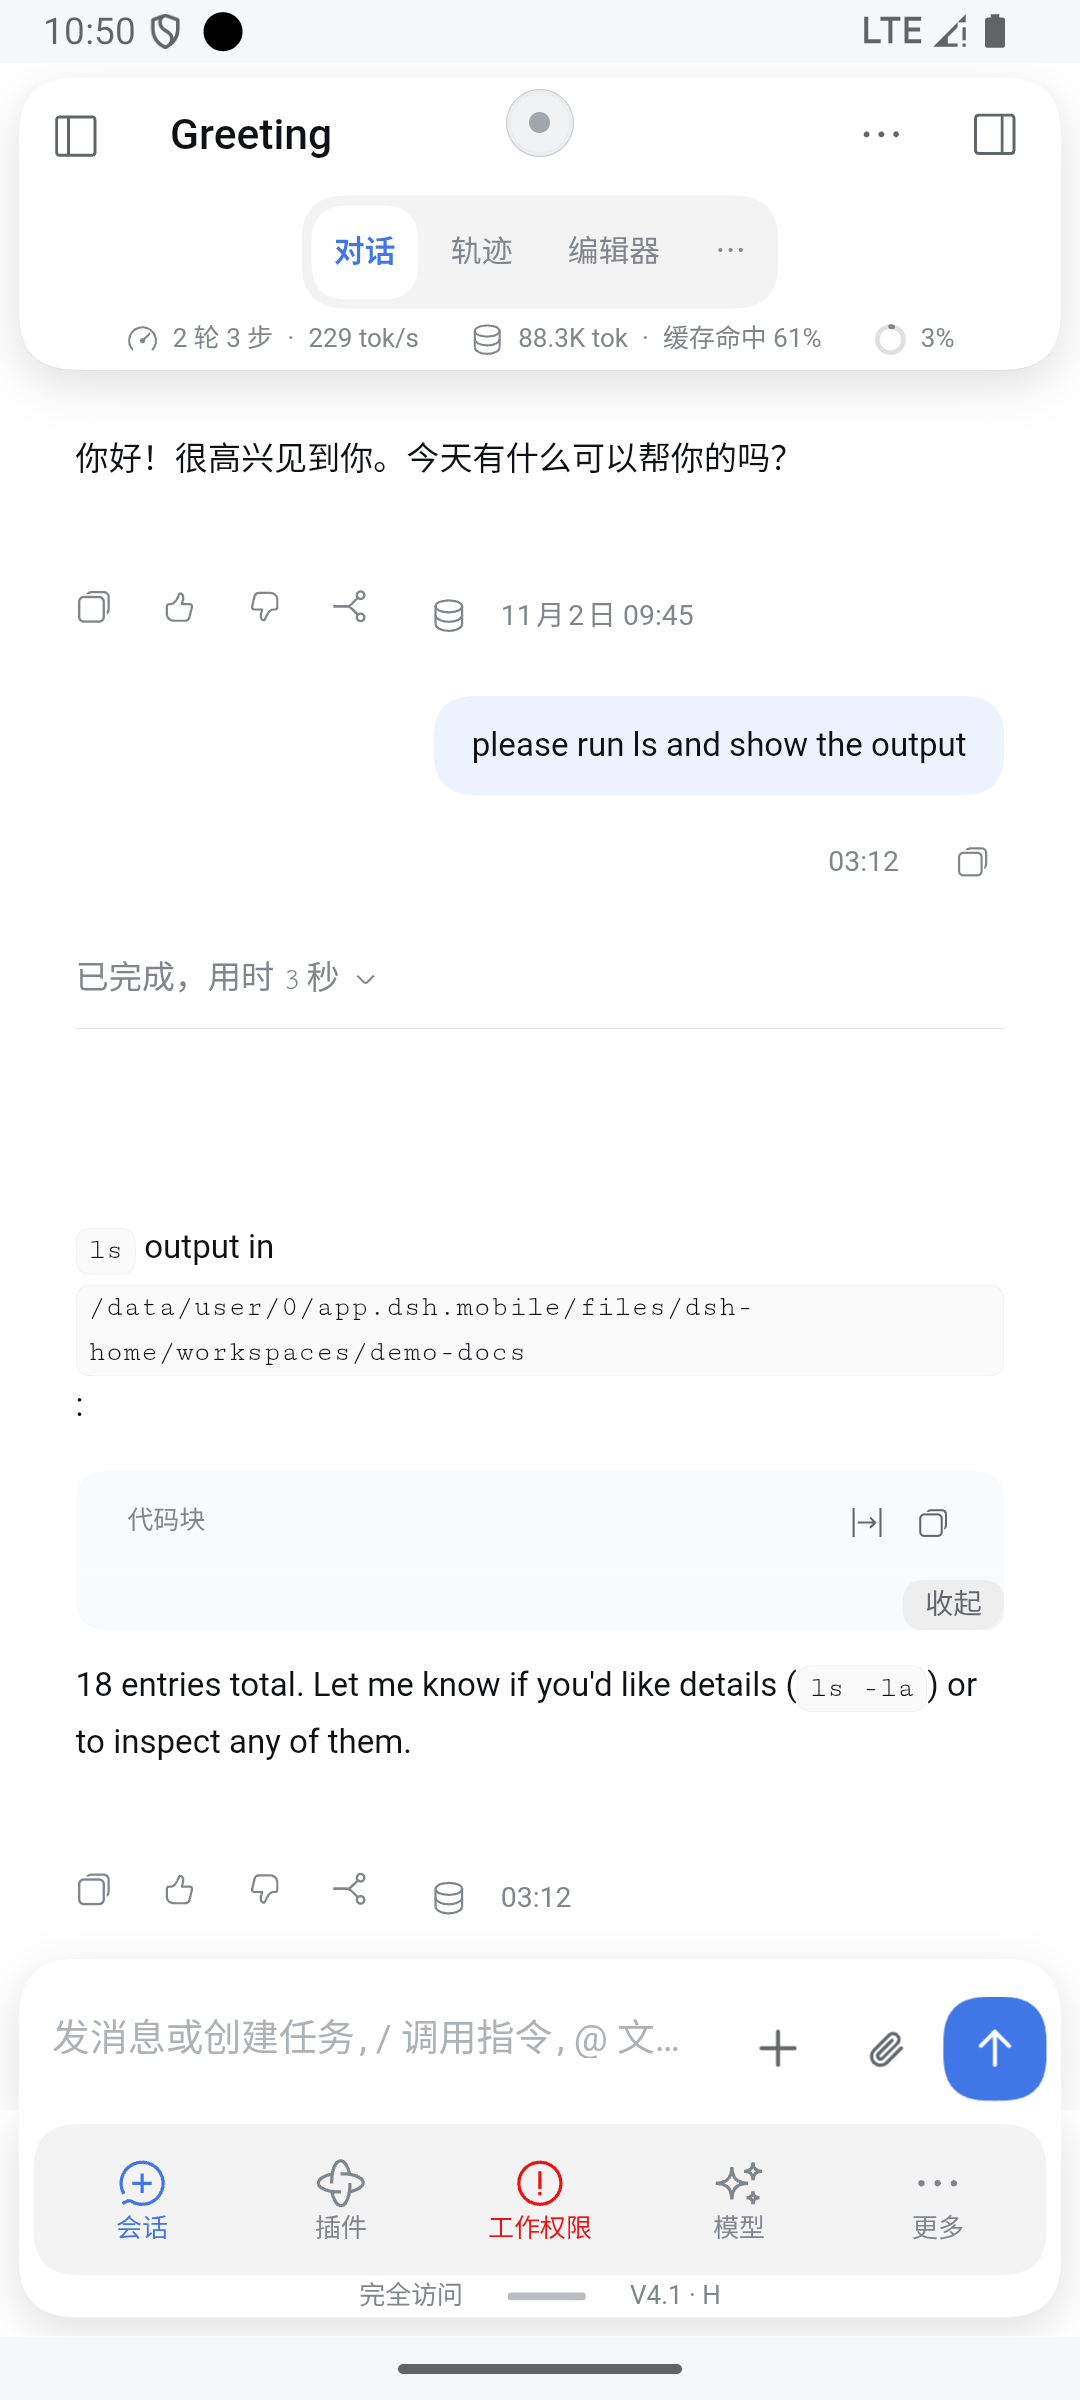
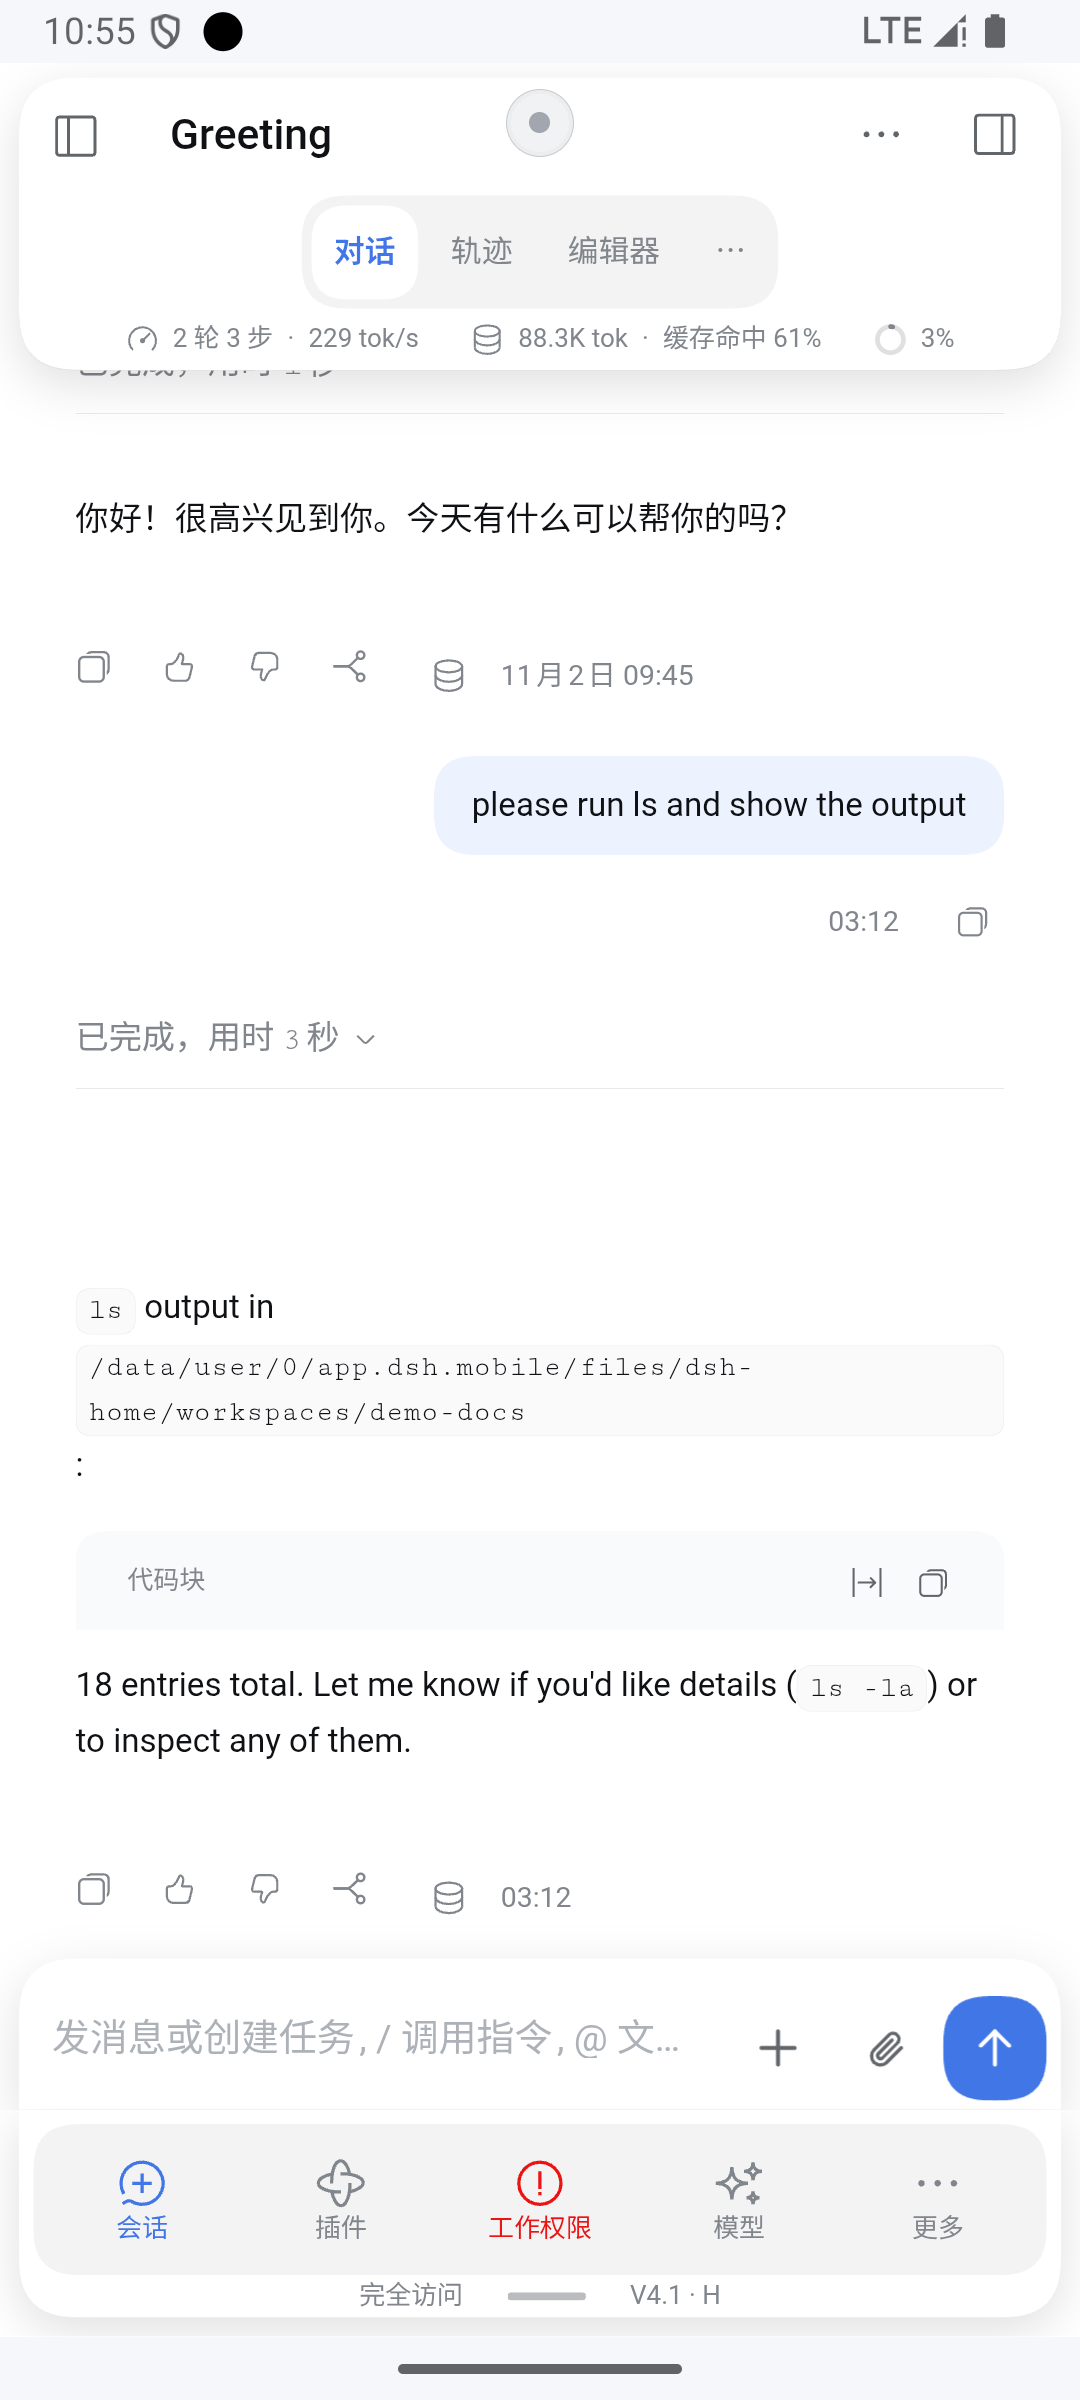
feat(dialogue): re-apply collapse on every DOM mutation; hide the code card wrapper too
- MutationObserver (rAF-debounced) re-applies the three syncs after React commits, so the collapsed state no longer bounces back within a second;
- the code block card wrapper is hidden together with the <pre>, so collapsing no longer leaves an empty 代码块 card behind.
AVD: click -> hidden 6, pre display none, code card header-only; the 'output in <path>' summary line stays visible by design.

diff --git a/lib/client.js b/lib/client.js
@@ -2226,12 +2226,23 @@ window.__ModuleLoader__.load({
         }
         const targets = [];
         for (const part of parts) {
-          for (const node of part.querySelectorAll('[data-dshm-think], [data-dshm-cmd], [data-dshm-code-block]')) {
+          for (const node of part.querySelectorAll('[data-dshm-think], [data-dshm-cmd]')) {
             targets.push(node);
           }
+          for (const node of part.querySelectorAll('[data-dshm-code-block]')) {
+            targets.push(node);
+            // 代码块外面还有一层带标题的卡片，只藏 pre 会留下空卡片。
+            const card = node.closest('div');
+            if (card && card !== part) targets.push(card);
+          }
           for (const node of part.querySelectorAll('*')) {
-            if (node.children.length === 0 && /^output in\b/i.test((node.textContent || '').trim())) {
-              targets.push(node.parentElement || node);
+            if (node.children.length === 0 && /output in/i.test((node.textContent || '').trim())) {
+              let holder = node;
+              while (holder.parentElement && holder.parentElement !== part
+                && holder.parentElement.children.length < 3) {
+                holder = holder.parentElement;
+              }
+              targets.push(holder);
             }
           }
         }
@@ -2278,6 +2289,22 @@ window.__ModuleLoader__.load({
       };
       window.setInterval(tick, 1200);
       window.setTimeout(tick, 600);
+      // React 每次提交都会重建节点、把我们写的隐藏属性冲掉：用 MutationObserver
+      // 在变更后的下一帧立刻重放一次，避免「点了收起又弹回来」。
+      let scheduled = false;
+      const schedule = () => {
+        if (scheduled) return;
+        scheduled = true;
+        window.requestAnimationFrame(() => {
+          scheduled = false;
+          tick();
+        });
+      };
+      try {
+        new MutationObserver(schedule).observe(document.body, { childList: true, subtree: true });
+      } catch (error) {
+        // 观察失败不影响轮询兜底。
+      }
     }
     function syncComposerAttach() {
       const card = document.querySelector('[data-composer-card]');
